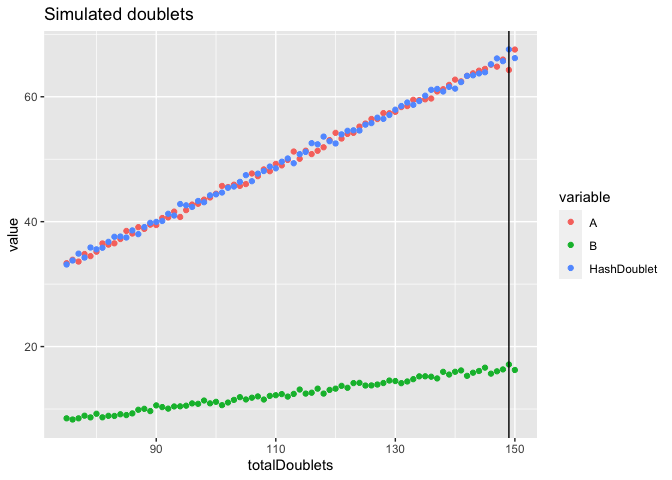
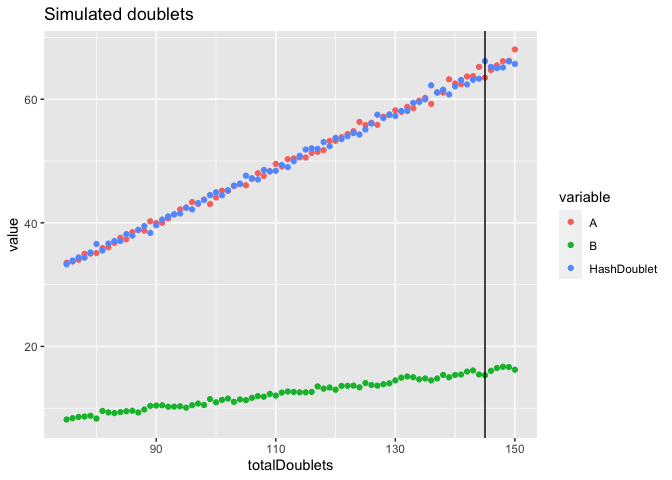
Fixes tables in doublet md.

diff --git a/hashed_doublets/doublet_rate_predictor.md b/hashed_doublets/doublet_rate_predictor.md
@@ -51,18 +51,20 @@ print(nCells)
     ## 500 500
 
 ``` r
-predict_hashed_doublet_rates(nCells, 75)
+out = predict_hashed_doublet_rates(nCells, 75)
 ```
 
 ![](doublet_rate_predictor_files/figure-gfm/unnamed-chunk-2-1.png)<!-- -->
 
-<div data-pagedtable="false">
+``` r
+print(out)
+```
 
-<script data-pagedtable-source type="application/json">
-{"columns":[{"label":[""],"name":["_rn_"],"type":[""],"align":["left"]},{"label":["nDoublets"],"name":[1],"type":["dbl"],"align":["right"]},{"label":["PercentageTotal"],"name":[2],"type":["dbl"],"align":["right"]},{"label":["PercentageSample"],"name":[3],"type":["dbl"],"align":["right"]}],"data":[{"1":"37.16","2":"3.716","3":"7.432","_rn_":"A"},{"1":"36.80","2":"3.680","3":"7.360","_rn_":"B"},{"1":"75.04","2":"7.504","3":"NA","_rn_":"HashDoublet"},{"1":"149.00","2":"14.900","3":"NA","_rn_":"totalDoublets"}],"options":{"columns":{"min":{},"max":[10]},"rows":{"min":[10],"max":[10]},"pages":{}}}
-  </script>
-
-</div>
+    ##               nDoublets PercentageTotal PercentageSample
+    ## A                 36.54           3.654            7.308
+    ## B                 36.21           3.621            7.242
+    ## HashDoublet       75.25           7.525               NA
+    ## totalDoublets    148.00          14.800               NA
 
 ## Test different scenarios
 
@@ -77,18 +79,20 @@ nCells
     ## 1000  500
 
 ``` r
-predict_hashed_doublet_rates(nCells, 75)
+out = predict_hashed_doublet_rates(nCells, 75)
 ```
 
 ![](doublet_rate_predictor_files/figure-gfm/unnamed-chunk-3-1.png)<!-- -->
 
-<div data-pagedtable="false">
+``` r
+print(out)
+```
 
-<script data-pagedtable-source type="application/json">
-{"columns":[{"label":[""],"name":["_rn_"],"type":[""],"align":["left"]},{"label":["nDoublets"],"name":[1],"type":["dbl"],"align":["right"]},{"label":["PercentageTotal"],"name":[2],"type":["dbl"],"align":["right"]},{"label":["PercentageSample"],"name":[3],"type":["dbl"],"align":["right"]}],"data":[{"1":"64.29","2":"4.286000","3":"6.429","_rn_":"A"},{"1":"17.13","2":"1.142000","3":"3.426","_rn_":"B"},{"1":"67.58","2":"4.505333","3":"NA","_rn_":"HashDoublet"},{"1":"149.00","2":"9.933333","3":"NA","_rn_":"totalDoublets"}],"options":{"columns":{"min":{},"max":[10]},"rows":{"min":[10],"max":[10]},"pages":{}}}
-  </script>
-
-</div>
+    ##               nDoublets PercentageTotal PercentageSample
+    ## A                 63.48        4.232000            6.348
+    ## B                 15.34        1.022667            3.068
+    ## HashDoublet       66.18        4.412000               NA
+    ## totalDoublets    145.00        9.666667               NA
 
 ### 3 samples
 
@@ -104,18 +108,21 @@ nCells
     ## 200 500 700
 
 ``` r
-predict_hashed_doublet_rates(nCells, 75)
+out = predict_hashed_doublet_rates(nCells, 75)
 ```
 
 ![](doublet_rate_predictor_files/figure-gfm/unnamed-chunk-4-1.png)<!-- -->
 
-<div data-pagedtable="false">
+``` r
+print(out)
+```
 
-<script data-pagedtable-source type="application/json">
-{"columns":[{"label":[""],"name":["_rn_"],"type":[""],"align":["left"]},{"label":["nDoublets"],"name":[1],"type":["dbl"],"align":["right"]},{"label":["PercentageTotal"],"name":[2],"type":["dbl"],"align":["right"]},{"label":["PercentageSample"],"name":[3],"type":["dbl"],"align":["right"]}],"data":[{"1":"2.67","2":"0.1907143","3":"1.335","_rn_":"A"},{"1":"17.12","2":"1.2228571","3":"3.424","_rn_":"B"},{"1":"32.13","2":"2.2950000","3":"4.590","_rn_":"C"},{"1":"75.08","2":"5.3628571","3":"NA","_rn_":"HashDoublet"},{"1":"127.00","2":"9.0714286","3":"NA","_rn_":"totalDoublets"}],"options":{"columns":{"min":{},"max":[10]},"rows":{"min":[10],"max":[10]},"pages":{}}}
-  </script>
-
-</div>
+    ##               nDoublets PercentageTotal PercentageSample
+    ## A                  2.54       0.1814286         1.270000
+    ## B                 16.34       1.1671429         3.268000
+    ## C                 31.44       2.2457143         4.491429
+    ## HashDoublet       74.68       5.3342857               NA
+    ## totalDoublets    125.00       8.9285714               NA
 
 ### 10 samples
 
@@ -131,18 +138,29 @@ nCells
     ##  100  200  300  400  500  600  700  800  900 1000 1100
 
 ``` r
-predict_hashed_doublet_rates(nCells, 75)
+out = predict_hashed_doublet_rates(nCells, 75)
 ```
 
 ![](doublet_rate_predictor_files/figure-gfm/unnamed-chunk-5-1.png)<!-- -->
 
-<div data-pagedtable="false">
+``` r
+print(out)
+```
 
-<script data-pagedtable-source type="application/json">
-{"columns":[{"label":[""],"name":["_rn_"],"type":[""],"align":["left"]},{"label":["nDoublets"],"name":[1],"type":["dbl"],"align":["right"]},{"label":["PercentageTotal"],"name":[2],"type":["dbl"],"align":["right"]},{"label":["PercentageSample"],"name":[3],"type":["dbl"],"align":["right"]}],"data":[{"1":"0.02","2":"0.0003030303","3":"0.0200000","_rn_":"A"},{"1":"0.06","2":"0.0009090909","3":"0.0300000","_rn_":"B"},{"1":"0.18","2":"0.0027272727","3":"0.0600000","_rn_":"C"},{"1":"0.25","2":"0.0037878788","3":"0.0625000","_rn_":"D"},{"1":"0.41","2":"0.0062121212","3":"0.0820000","_rn_":"E"},{"1":"0.67","2":"0.0101515152","3":"0.1116667","_rn_":"F"},{"1":"0.95","2":"0.0143939394","3":"0.1357143","_rn_":"G"},{"1":"1.29","2":"0.0195454545","3":"0.1612500","_rn_":"H"},{"1":"1.39","2":"0.0210606061","3":"0.1544444","_rn_":"I"},{"1":"2.19","2":"0.0331818182","3":"0.2190000","_rn_":"J"},{"1":"2.37","2":"0.0359090909","3":"0.2154545","_rn_":"K"},{"1":"75.22","2":"1.1396969697","3":"NA","_rn_":"HashDoublet"},{"1":"85.00","2":"1.2878787879","3":"NA","_rn_":"totalDoublets"}],"options":{"columns":{"min":{},"max":[10]},"rows":{"min":[10],"max":[10]},"pages":{}}}
-  </script>
-
-</div>
+    ##               nDoublets PercentageTotal PercentageSample
+    ## A                  0.04    0.0006060606        0.0400000
+    ## B                  0.09    0.0013636364        0.0450000
+    ## C                  0.09    0.0013636364        0.0300000
+    ## D                  0.19    0.0028787879        0.0475000
+    ## E                  0.36    0.0054545455        0.0720000
+    ## F                  0.61    0.0092424242        0.1016667
+    ## G                  0.97    0.0146969697        0.1385714
+    ## H                  1.38    0.0209090909        0.1725000
+    ## I                  1.60    0.0242424242        0.1777778
+    ## J                  1.83    0.0277272727        0.1830000
+    ## K                  2.40    0.0363636364        0.2181818
+    ## HashDoublet       74.44    1.1278787879               NA
+    ## totalDoublets     84.00    1.2727272727               NA
 
 ### 20 samples
 
@@ -158,18 +176,38 @@ nCells
     ## 500 500 500 500 500 500 500 500 500 500 500 500 500 500 500 500 500 500 500 500
 
 ``` r
-predict_hashed_doublet_rates(nCells, 75)
+out = predict_hashed_doublet_rates(nCells, 75)
 ```
 
 ![](doublet_rate_predictor_files/figure-gfm/unnamed-chunk-6-1.png)<!-- -->
 
-<div data-pagedtable="false">
+``` r
+print(out)
+```
 
-<script data-pagedtable-source type="application/json">
-{"columns":[{"label":[""],"name":["_rn_"],"type":[""],"align":["left"]},{"label":["nDoublets"],"name":[1],"type":["dbl"],"align":["right"]},{"label":["PercentageTotal"],"name":[2],"type":["dbl"],"align":["right"]},{"label":["PercentageSample"],"name":[3],"type":["dbl"],"align":["right"]}],"data":[{"1":"0.22","2":"0.0022","3":"0.044","_rn_":"A"},{"1":"0.22","2":"0.0022","3":"0.044","_rn_":"B"},{"1":"0.20","2":"0.0020","3":"0.040","_rn_":"C"},{"1":"0.25","2":"0.0025","3":"0.050","_rn_":"D"},{"1":"0.20","2":"0.0020","3":"0.040","_rn_":"E"},{"1":"0.22","2":"0.0022","3":"0.044","_rn_":"F"},{"1":"0.20","2":"0.0020","3":"0.040","_rn_":"G"},{"1":"0.16","2":"0.0016","3":"0.032","_rn_":"H"},{"1":"0.13","2":"0.0013","3":"0.026","_rn_":"I"},{"1":"0.12","2":"0.0012","3":"0.024","_rn_":"J"},{"1":"0.22","2":"0.0022","3":"0.044","_rn_":"K"},{"1":"0.18","2":"0.0018","3":"0.036","_rn_":"L"},{"1":"0.23","2":"0.0023","3":"0.046","_rn_":"M"},{"1":"0.17","2":"0.0017","3":"0.034","_rn_":"N"},{"1":"0.22","2":"0.0022","3":"0.044","_rn_":"O"},{"1":"0.21","2":"0.0021","3":"0.042","_rn_":"P"},{"1":"0.17","2":"0.0017","3":"0.034","_rn_":"Q"},{"1":"0.19","2":"0.0019","3":"0.038","_rn_":"R"},{"1":"0.20","2":"0.0020","3":"0.040","_rn_":"S"},{"1":"0.23","2":"0.0023","3":"0.046","_rn_":"T"},{"1":"75.06","2":"0.7506","3":"NA","_rn_":"HashDoublet"},{"1":"79.00","2":"0.7900","3":"NA","_rn_":"totalDoublets"}],"options":{"columns":{"min":{},"max":[10]},"rows":{"min":[10],"max":[10]},"pages":{}}}
-  </script>
-
-</div>
+    ##               nDoublets PercentageTotal PercentageSample
+    ## A                  0.18          0.0018            0.036
+    ## B                  0.27          0.0027            0.054
+    ## C                  0.28          0.0028            0.056
+    ## D                  0.15          0.0015            0.030
+    ## E                  0.29          0.0029            0.058
+    ## F                  0.18          0.0018            0.036
+    ## G                  0.22          0.0022            0.044
+    ## H                  0.18          0.0018            0.036
+    ## I                  0.17          0.0017            0.034
+    ## J                  0.15          0.0015            0.030
+    ## K                  0.24          0.0024            0.048
+    ## L                  0.11          0.0011            0.022
+    ## M                  0.18          0.0018            0.036
+    ## N                  0.12          0.0012            0.024
+    ## O                  0.11          0.0011            0.022
+    ## P                  0.11          0.0011            0.022
+    ## Q                  0.21          0.0021            0.042
+    ## R                  0.26          0.0026            0.052
+    ## S                  0.16          0.0016            0.032
+    ## T                  0.17          0.0017            0.034
+    ## HashDoublet       75.26          0.7526               NA
+    ## totalDoublets     79.00          0.7900               NA
 
 ## Real data
 
@@ -204,15 +242,19 @@ Have 4 samples with 315 to 3806 cells, 4% doublets and 1.5% undermined.
 nMulti = nCells["Multiplet"]
 nCells = nCells[c(8:11)]
 
-predict_hashed_doublet_rates(nCells, nMulti)
+out = predict_hashed_doublet_rates(nCells, nMulti)
 ```
 
 ![](doublet_rate_predictor_files/figure-gfm/unnamed-chunk-8-1.png)<!-- -->
 
-<div data-pagedtable="false">
+``` r
+print(out)
+```
 
-<script data-pagedtable-source type="application/json">
-{"columns":[{"label":[""],"name":["_rn_"],"type":[""],"align":["left"]},{"label":["nDoublets"],"name":[1],"type":["dbl"],"align":["right"]},{"label":["PercentageTotal"],"name":[2],"type":["dbl"],"align":["right"]},{"label":["PercentageSample"],"name":[3],"type":["dbl"],"align":["right"]}],"data":[{"1":"155.90","2":"2.26237121","3":"4.0961640","_rn_":"SampleTag08_hs"},{"1":"1.15","2":"0.01668843","3":"0.3650794","_rn_":"SampleTag09_hs"},{"1":"17.39","2":"0.25235815","3":"1.3470178","_rn_":"SampleTag10_hs"},{"1":"24.19","2":"0.35103759","3":"1.6355646","_rn_":"SampleTag11_hs"},{"1":"310.37","2":"4.50399071","3":"NA","_rn_":"HashDoublet"},{"1":"509.00","2":"7.38644609","3":"NA","_rn_":"totalDoublets"}],"options":{"columns":{"min":{},"max":[10]},"rows":{"min":[10],"max":[10]},"pages":{}}}
-  </script>
-
-</div>
+    ##                nDoublets PercentageTotal PercentageSample
+    ## SampleTag08_hs    155.02      2.24960093        4.0730426
+    ## SampleTag09_hs      1.14      0.01654332        0.3619048
+    ## SampleTag10_hs     17.57      0.25497025        1.3609605
+    ## SampleTag11_hs     23.44      0.34015382        1.5848546
+    ## HashDoublet       309.83      4.49615440               NA
+    ## totalDoublets     507.00      7.35742273               NA
